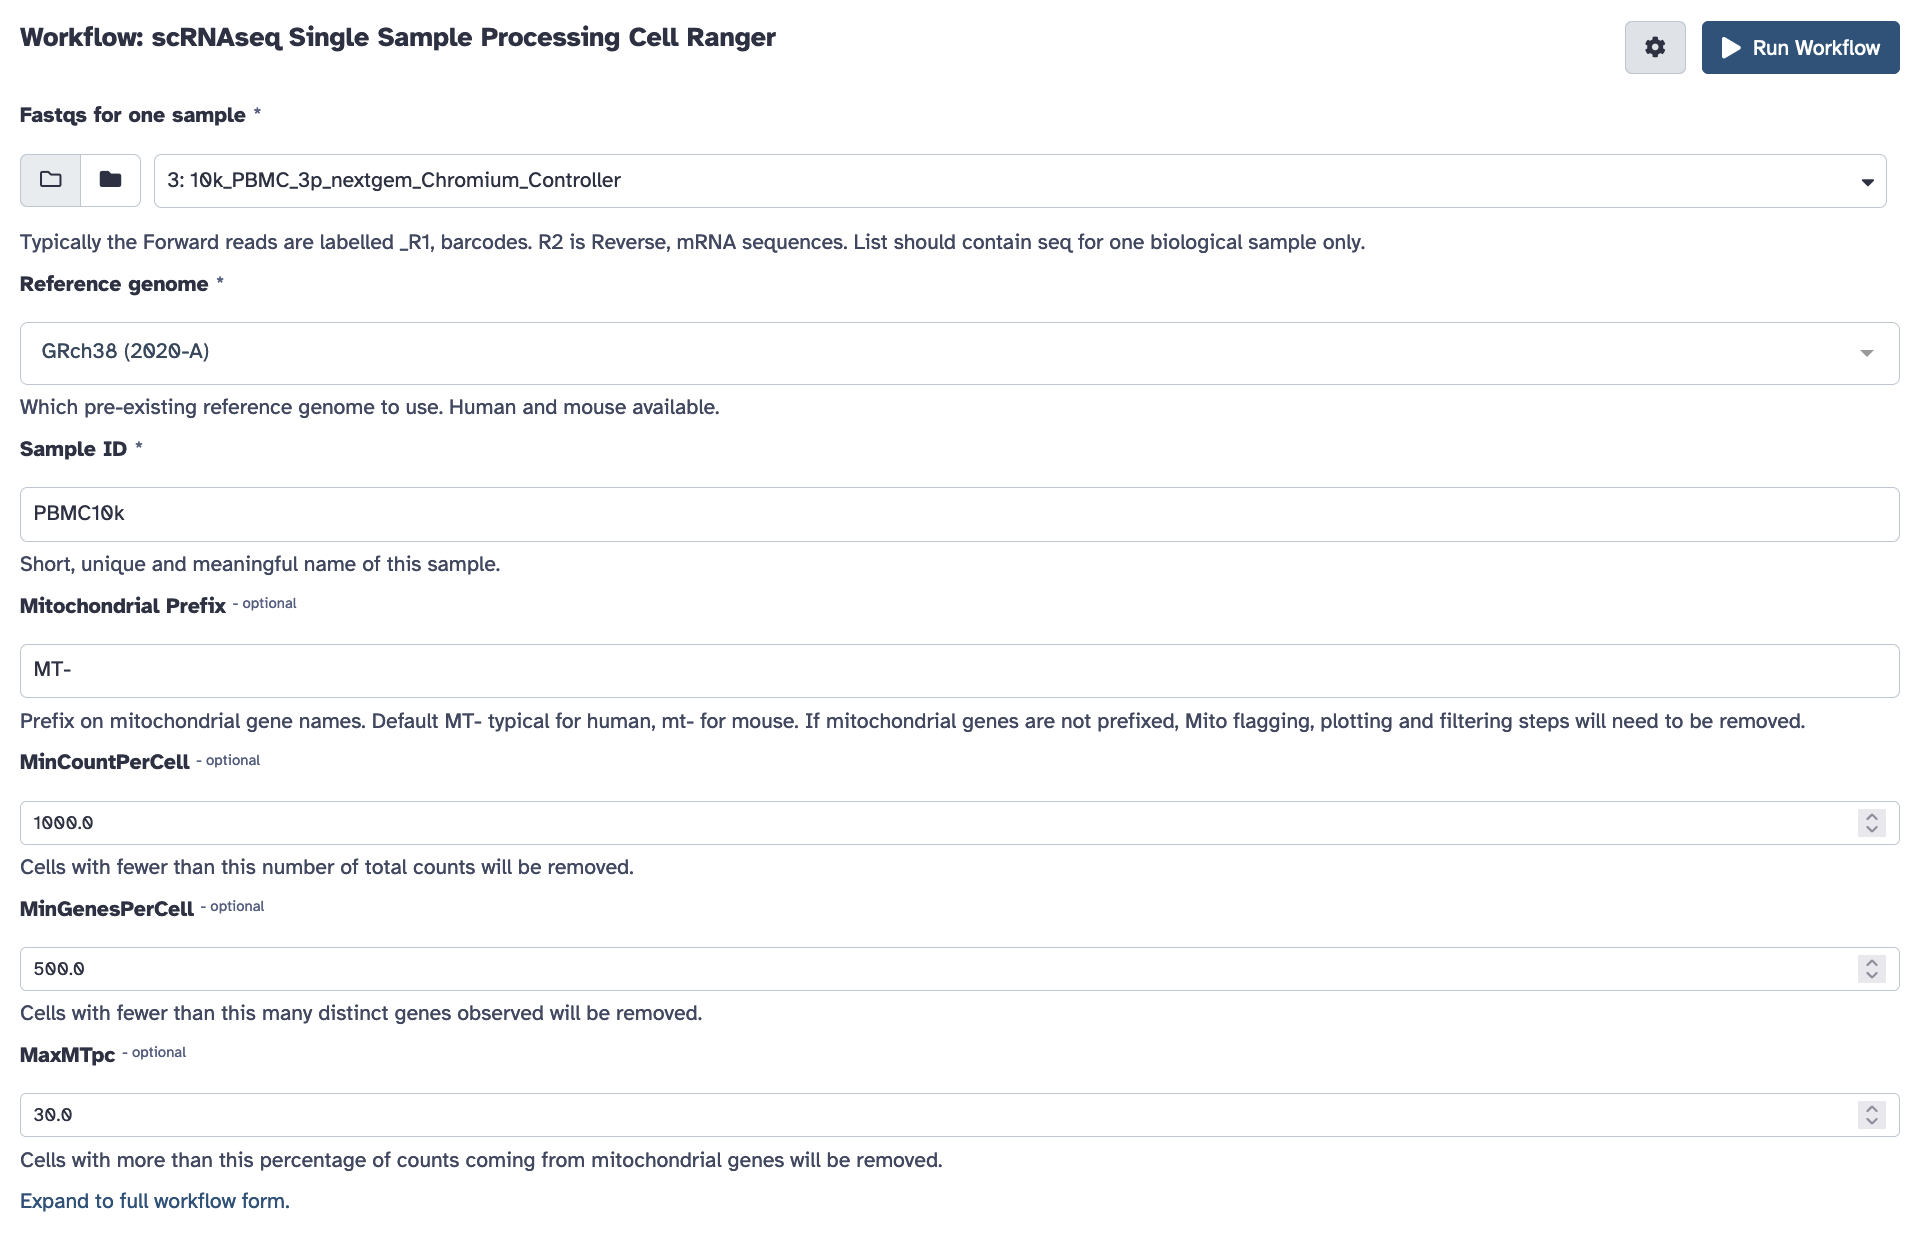
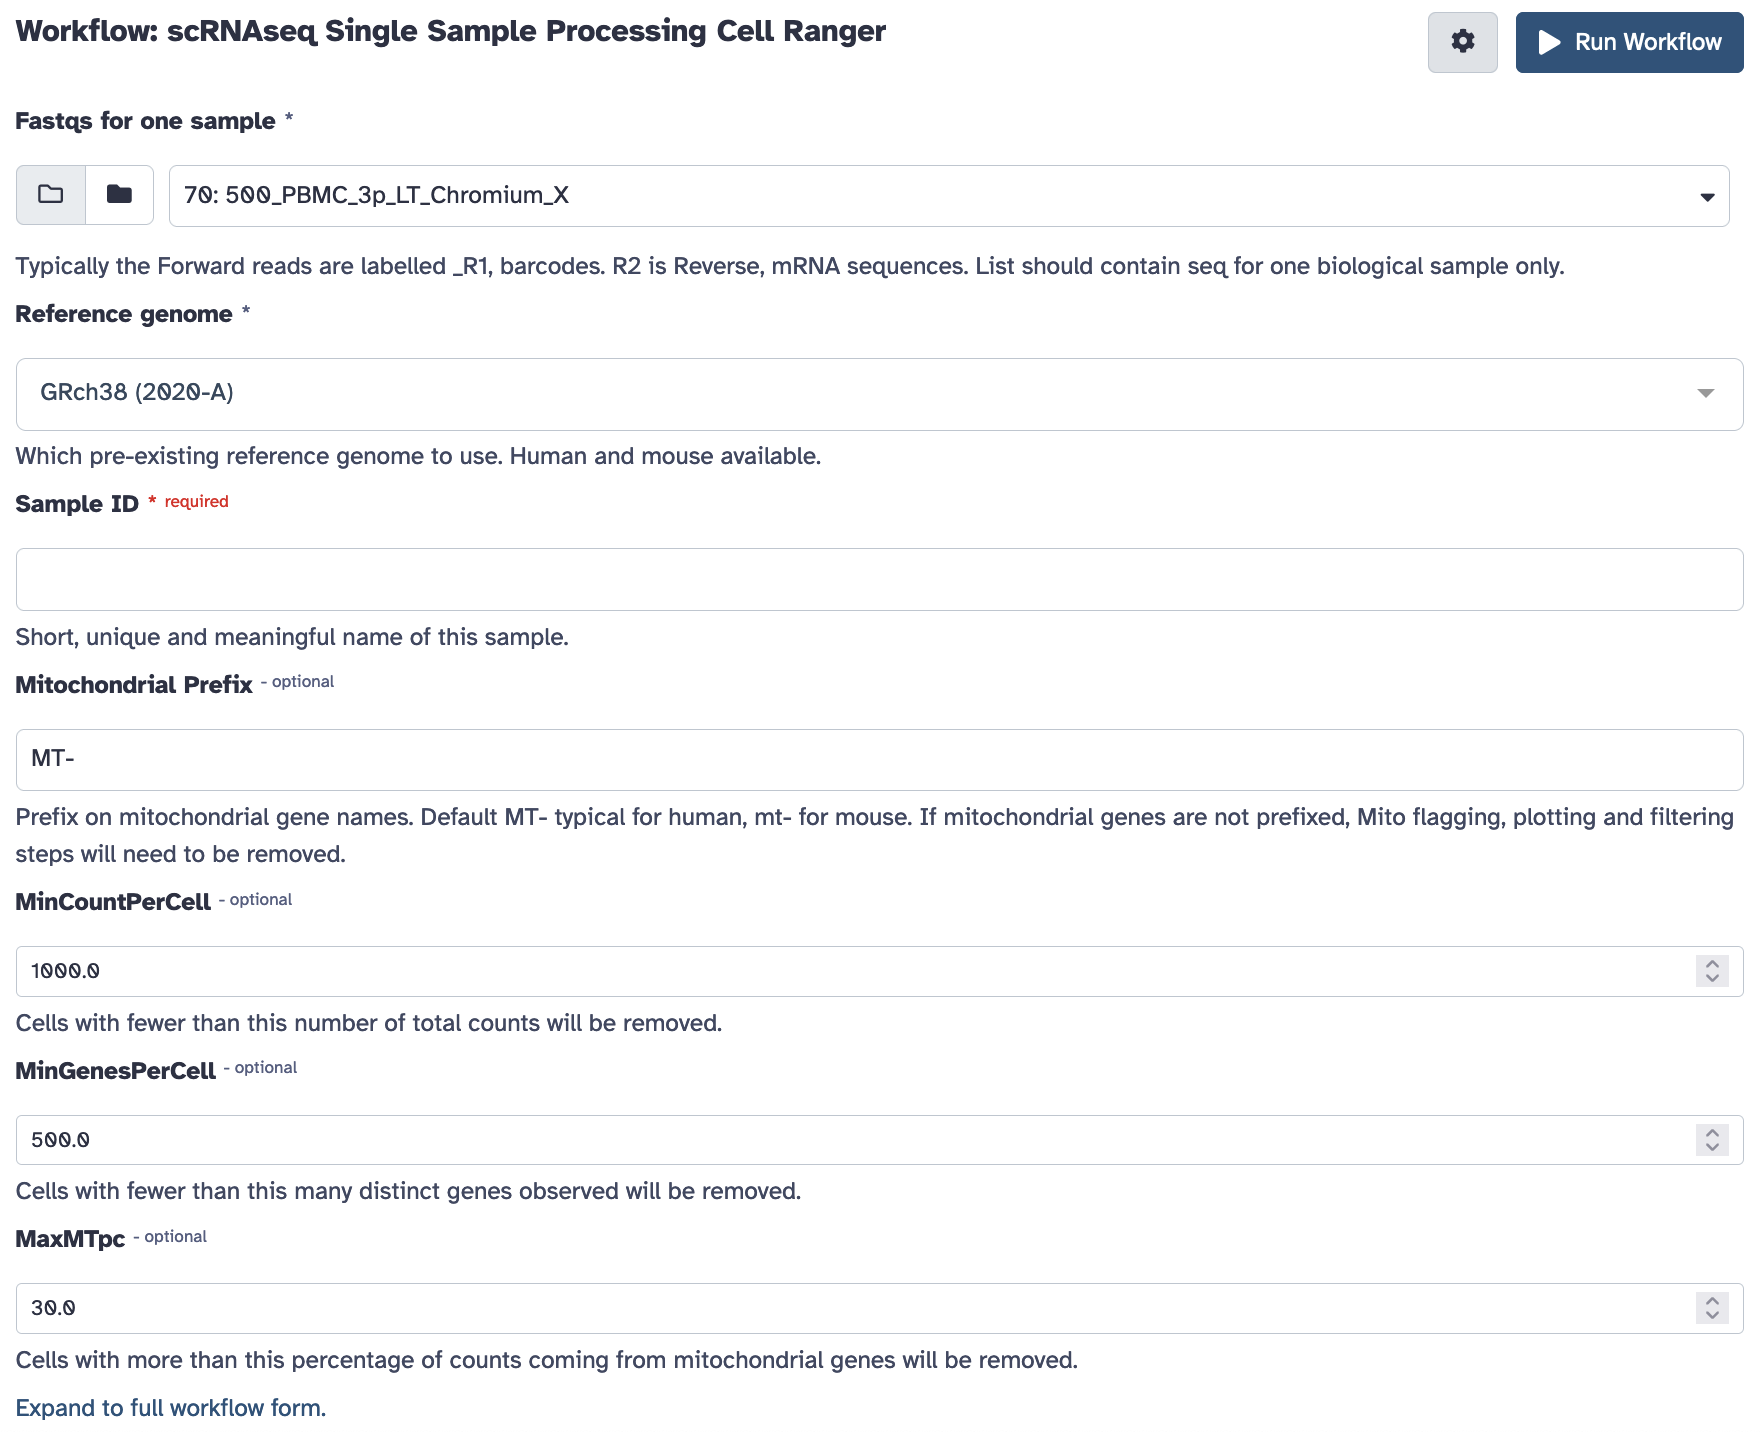
update example dataset, naming notes

diff --git a/pages/scrnaseq_wf_guide.md b/pages/scrnaseq_wf_guide.md
@@ -135,6 +135,8 @@ Cell Ranger expects fastq files in a simple collection.
 
 1. Load the _R1 and _R2 fastq files into your galaxy history. See [guide to loading data](https://galaxyproject.org/support/loading-data/) for details.
 
+{% include callout.html type="important" content="The Cell Ranger tool expects fastq files to be named in a bcl2fastq naming convention *[Sample Name]_S1_L00[Lane Number]_[Read Type]_001.fastq.gz* .  This is typical for illumina sequencers. If your data is of a different naming convention (e.g. SRA downloads), you may need to rename your files. More detail [here](https://support.10xgenomics.com/single-cell-gene-expression/software/pipelines/latest/using/fastq-input)." %}
+
 2. Select the fastq files that make up one biological sample. Typically this may be 2 files (R1 and R2), but there can be more (e.g. often multiple lanes).
 
     a. Click the 'tick in a box' select files button at the top of the history (dataset) panel.
@@ -143,7 +145,7 @@ Cell Ranger expects fastq files in a simple collection.
 
 {% include image.html file="/screen_flat_fastq_collection.png" alt="Screenshot of selecting fastqs for cell ranger collection" max-width="500px" %}
 
-However it expects the collection to be named in a particular way. Fastq files will typically have names like: *SomeSample_S2_L001_R1_001.fastq.gz*, and the collection should be named with everything before *_S2_L001_R1_001.fastq.gz*. Here that is *'10k_PBMC_3p_nextgem_Chromium_Controller'*.
+However it expects the collection to be named in a particular way. Fastq files will typically have names like: *SomeSample_S2_L001_R1_001.fastq.gz*, and the collection should be named with everything before *_S2_L001_R1_001.fastq.gz*. Here that is *'500_PBMC_3p_LT_Chromium_X'*.
 
 {% include callout.html type="important" content="The name of your collection matters!" %}
 
@@ -197,13 +199,17 @@ When there is only a single biological sample in a study, there is a streamlined
 The input for the star solo workflow is:
 
 * **Fastq files**: prepared as above
-* **Reference**: Only if not working with human or mouse.  See [Cell Ranger custom reference](#Cell-Ranger-custom-reference)
+* **Reference**: Only if not working with human or mouse. 
+
+
+{% include callout.html type="note" content=" If you're using a different species, you can make your reference with the mkgtf and mkref Cell Ranger subtools. Refer to [10X custom reference documentation](https://support.10xgenomics.com/single-cell-gene-expression/software/pipelines/latest/using/tutorial_mr). For use of these workflows consider editing the count and load workflow, or running the Cell Ranger tool separately to use a counts matrix intput." %}
+
 
 1. If you haven't already, apply for access to Cell Ranger - see [Getting access to cell ranger](#getting-access-to-cell-ranger). Otherwise Cell Ranger won't be visible in your tools list!
 
 2. Import the **Single sample workflow (Cell Ranger):** (listed above). This workflow will include a couple of sub workflows.
 
-3. Open the workflow menu, find the workflow and hit run to bring up the following launch form. The first option _'XXXXX'_ should be the paired collection you created and named above. You'll also be prompted to customise any filtering parameters, and choose a sensible name for the biological sample.
+3. Open the workflow menu, find the workflow and hit run to bring up the following launch form. The first option _'Fastqs for one sample'_ should be the paired collection you created and named above. You'll also be prompted to customise any filtering parameters, and choose a sensible name for the biological sample.
 
 {% include image.html file="/screen_cellranger_ss_launch.png" alt="Single Sample Launch prompt" max-width="800px" %}
 
